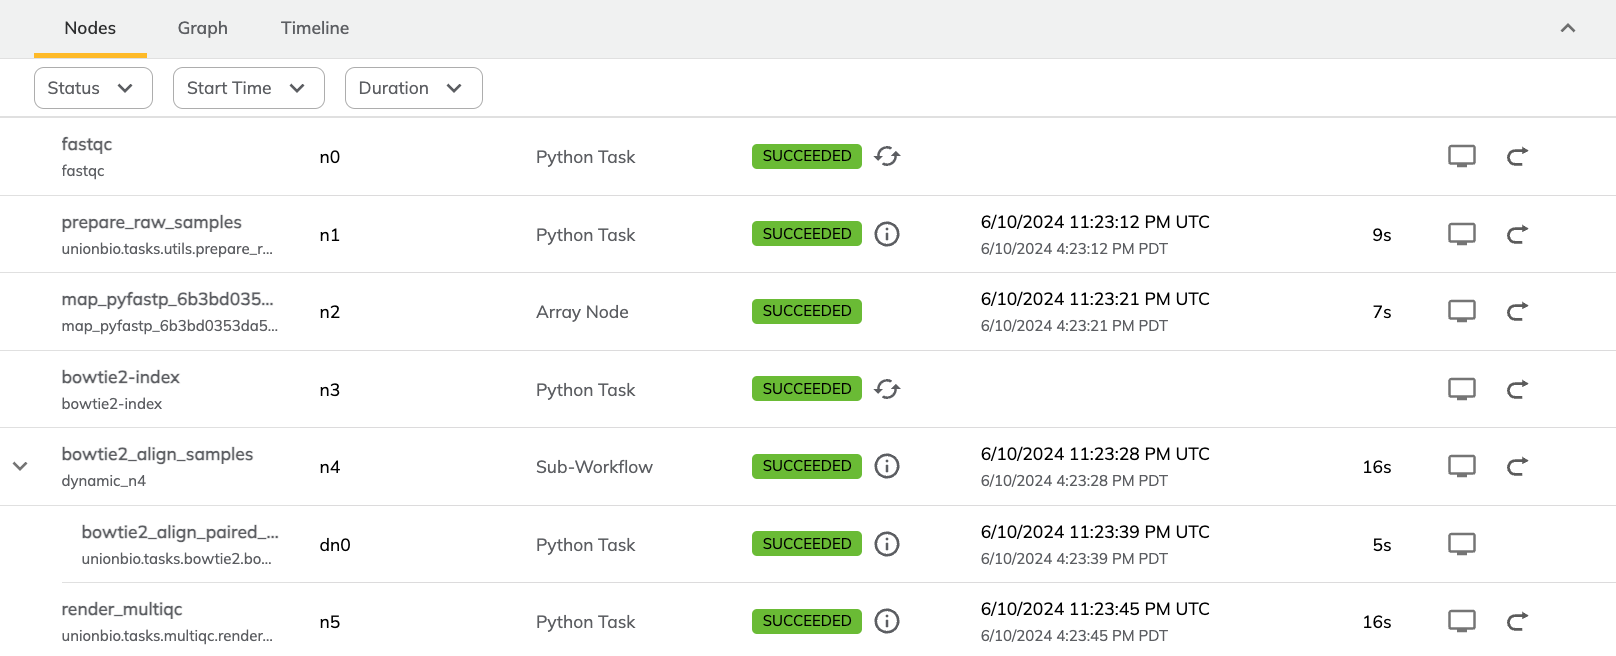
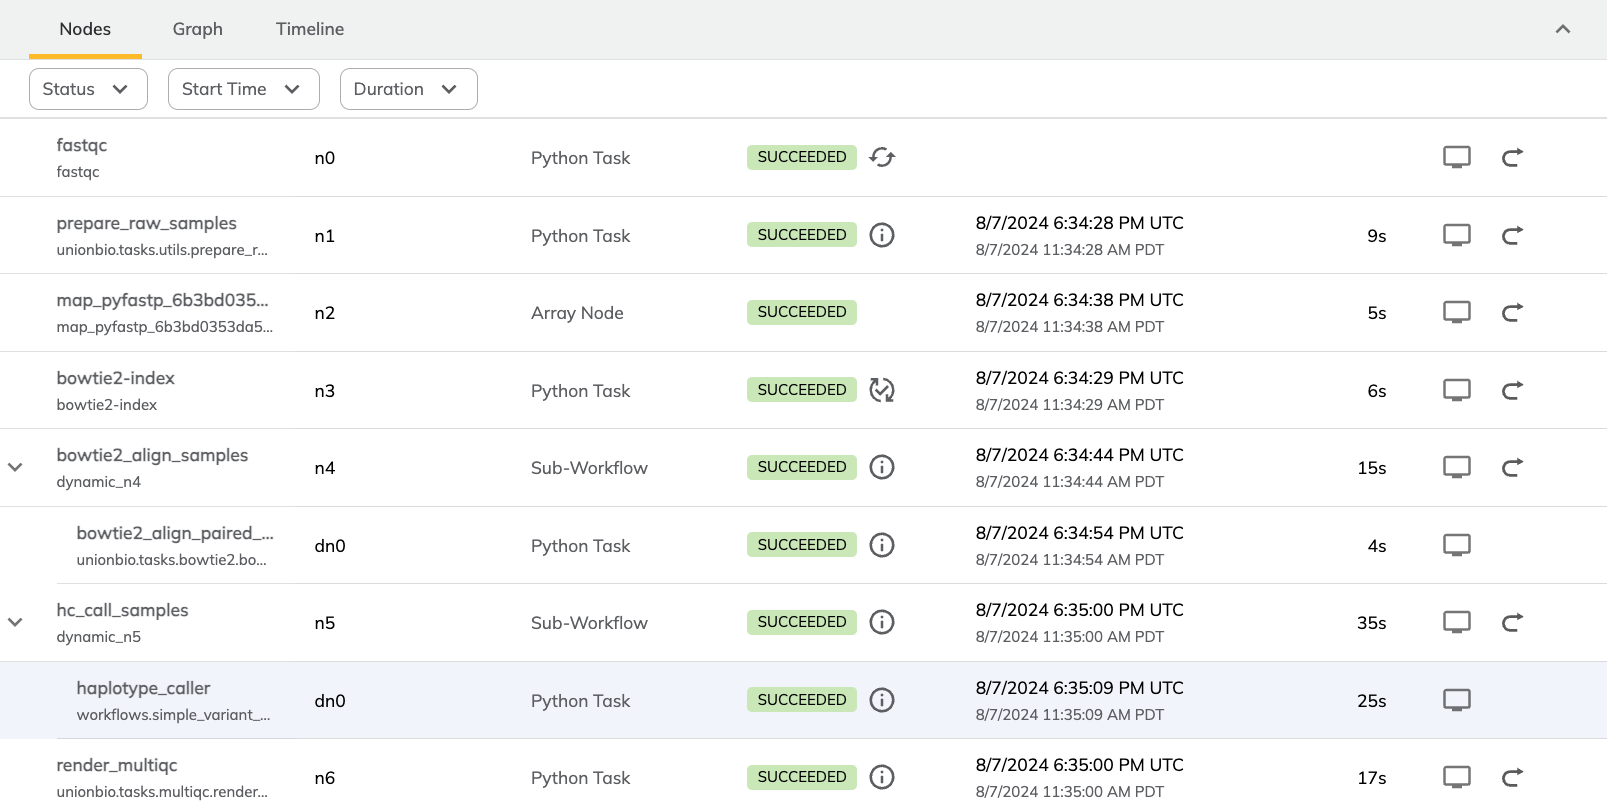
Updated figures, minor edits

diff --git a/papers/pryce_turner/main.md b/papers/pryce_turner/main.md
@@ -79,9 +79,9 @@ folding_img = ImageSpec(
 )
 ```
 
-The `main` image has a lot of functionality and could arguably be pared down. It contains a number of very common low-level tools, along with GATK and a couple aligners [@doi:10.1146/annurev-animal-020518-115005]. The `protein` image on the other hand, only contains a handful of tools related to a very specific protein folding and visualization workflow. Unless using a remote builder, these images are built locally and then pushed to the registry specified. They will persist in the builder's local registry and leverage the builder's cache until cleaned-up. Once built, they are Open Container Initiative (OCI) compliant container images like any other, allowing you to compose them as you see fit. The main image could be used as the base for the folding image, for example. Another very simple but powerful usecase would be to *Flytify* any off-the-shelf image by simply specifying a Python version and adding `flytekit` as a package. 
+The `main` image has a lot of functionality and could arguably be pared down. It contains a number of very common low-level tools, along with GATK and a couple aligners [@doi:10.1146/annurev-animal-020518-115005]. The `protein` image on the other hand, only contains a handful of tools related to a very specific protein folding and visualization workflow. Unless using a remote builder, these images are built locally and then pushed to the registry specified. They will persist in the builder's local registry and leverage the builder's cache until cleaned-up. Once built, they are Open Container Initiative (OCI) compliant container images like any other, allowing you to compose them as you see fit. The main image could be used as the base for the folding image, for example. Another very simple but powerful use case would be to *Flytify* any off-the-shelf image by simply specifying a Python version and adding `flytekit` as a package. 
 
-Currently, a subset of the full Dockerfile functionality has been reimplemented in ImageSpec. A typical Dockerfile could include pulling micromamba binaries, creating and activating an environment, before finally installing the relevant packages. ImageSpec's opinionated approach enables a simpler experience by handling this kind of boilerplate code behind-the-scenes. ImageSpec is also context aware in the same way `docker build` is, meaning a `source_root` containing a lock or env file can be specified and installed if you want to keep your local environment in sync. The [images](https://github.com/unionai-oss/unionbio/blob/main/images.py) submodule of the `unionbio` repo puts this in practice, with different source roots used in test and production.
+Currently, a subset of the full Dockerfile functionality has been reimplemented in ImageSpec. A typical Dockerfile could include pulling Micromamba binaries, creating and activating an environment, before finally installing the relevant packages. ImageSpec's opinionated approach enables a simpler experience by handling this kind of boilerplate code behind-the-scenes. ImageSpec is also context aware in the same way `docker build` is, meaning a `source_root` containing a lock or env file can be specified and installed if you want to keep your local environment in sync. The [images](https://github.com/unionai-oss/unionbio/blob/main/images.py) submodule of the `unionbio` repo puts this in practice, with different source roots used in test and production.
 
 ImageSpecs can be specified in the task decorator alongside any [infrastructure requirements](https://docs.flyte.org/en/latest/user_guide/productionizing/customizing_task_resources.html#customizing-task-resources) in a very granular fashion:
 
@@ -103,7 +103,7 @@ Having rich data types to enforce compatibility at the task boundary is essentia
 
 Importantly, Flyte abstracts the object store, allowing you to load these assets into pods wherever is most convenient for your tool. This not only makes it easier to work with these files, but also safer as you’re working with ephemeral storage during execution instead of a shared production filesystem. In a shared filesystem, unintended side-effects could mutate artifacts unrelated to the current production run. This can be mitigated in a number of ways, such as setting up an empty directory for every experiment or restricting permissions to files after a run is complete. In an ephemeral setting however, inputs of interest are materialized at the beginning of the task and any relevant outputs are serialized to a unique prefix in the object store when the task completes. Any unintended modifications disappear when the pod is deleted.
 
-Sequencers typically produce millions of short strings representing DNA fragments called reads. Single-read sequencing produces one sequencing read per DNA fragment. This is appropriate for simpler analyses such as profiling or for analyzing less complex genomes. [Paired-end](https://thesequencingcenter.com/knowledge-base/what-are-paired-end-reads/) sequencing, on the other hand, produces two reads representing both sequencing directions of the DNA fragment. This is essential in applications such as ["de novo"](https://thesequencingcenter.com/knowledge-base/de-novo-assembly/) assembly which involves re-assembling these reads into a whole genome without a known reference as a guide. It also unlocks the detection of larger variations, typically longer insertions or deletions. 
+Sequencers employ different strategies to produce millions of short strings representing DNA fragments called reads. One such strategy is single-read sequencing, which produces one sequencing read per DNA fragment. This is appropriate for simpler analyses such as profiling or for analyzing less complex genomes. [Paired-end](https://thesequencingcenter.com/knowledge-base/what-are-paired-end-reads/) sequencing, on the other hand, produces two reads representing both sequencing directions of the DNA fragment. This is essential in applications such as ["de novo"](https://thesequencingcenter.com/knowledge-base/de-novo-assembly/) assembly which involves re-assembling these reads into a whole genome without a known reference as a guide. It also unlocks the detection of larger variations, typically longer insertions or deletions. 
 
 Regardless of the sequencing strategy, these reads are captured in one or a pair of [FastQ](https://en.wikipedia.org/wiki/FASTQ_format) files, an example of which is given below:
 
@@ -152,7 +152,7 @@ Additionally, the `make_all` function body has been omitted for brevity, but it 
 
 FlyteFile, along with FlyteDirectory, represent a file or directory in a Flyte aware context. These types handle serialization and deserialization into and out of the object store. They re-implement a number of common filesystem operations like `open()`, which returns a streaming handle, for example. Simply returning a FlyteFile from a task will automatically upload it to whatever object store is defined. This unassuming piece of functionality is one of Flyte's key strengths: abstracting data management so researchers can focus on their task code. Since dataflow in Flyte is a first-class construct, having well defined inputs and outputs at the task boundary makes authoring workflows that much more reliable. 
 
-In order to accomplish sequencing in a sensible timeframe, reads generation is massively parallelized [@doi:10.1126/science.280.5369.1540]. This dramatically improves the throughput, but removes crucial information regarding the location of those reads. In order to recover that information, the reads are aligned to a known reference, producing an Alignment file, which we also capture in a dataclass:
+In order to accomplish sequencing in a sensible timeframe, reads generation is massively parallelized [@doi:10.1126/science.280.5369.1540]. This dramatically improves the throughput, but removes crucial information regarding the location of those reads. In order to recover that information, the reads are aligned to a known reference genome, producing an Alignment file, which we also capture in a dataclass:
 
 ```python
 @dataclass
@@ -189,9 +189,9 @@ Compared to the Reads dataclass, the attributes captured here are of course only
 
 ### Tasks
 
-While Flyte tasks are written in Python, there are a couple of ways to wrap arbitrary tools. ShellTasks are one such way, allowing you to define scripts as multi-line strings in Python. For added flexibility around packing and unpacking data types before and after execution, Flyte also ships with a `subproc_execute` function which can be used in vanilla Python tasks. Finally, arbitrary images can be used via a [ContainerTask](https://docs.flyte.org/en/latest/user_guide/customizing_dependencies/raw_containers.html#raw-containers) and avoid any `flytekit` dependency altogether.
+While Flyte tasks are written in Python, there are a few ways to wrap arbitrary tools. ShellTasks are one such way, allowing you to define scripts as multi-line strings in Python. For added flexibility around packing and unpacking data types before and after execution, Flyte also ships with a `subproc_execute` function which can be used in vanilla Python tasks. Finally, arbitrary images can be used via a [ContainerTask](https://docs.flyte.org/en/latest/user_guide/customizing_dependencies/raw_containers.html#raw-containers) and avoid any `flytekit` dependency altogether.
 
-Bowtie2 [@doi:10.1186/gb-2009-10-3-r25], a fast and memory efficient aligner, is used to carry out the aforementioned alignments. Before alignment can be carried out efficiently, an index must be generated from the reference genome. Indices are generated by pre-processing the reference into a data structure that enables rapid lookup of a match with a given read. Bowtie2 uses an [FM-index](https://www.cs.jhu.edu/~langmea/resources/lecture_notes/bwt_and_fm_index.pdf) which combines the Burrows-Wheeler Transform (BWT) with a suffix array. Broadly speaking, BWT enables compression of the data while the suffix array allows for efficient lookup of substrings. Here is a ShellTask creating a `bowtie2` index directory from a genome reference file:
+Bowtie2 [@doi:10.1186/gb-2009-10-3-r25], a fast and memory efficient aligner, is used to carry out the aforementioned alignments. Before alignment can be carried out efficiently, an index must be generated from the reference genome. Indices are generated by pre-processing the reference into a data structure that enables rapid lookup of a match to a given read. Bowtie2 uses an [FM-index](https://www.cs.jhu.edu/~langmea/resources/lecture_notes/bwt_and_fm_index.pdf) which combines the Burrows-Wheeler Transform (BWT) with a suffix array. Broadly speaking, BWT enables compression of the data while the suffix array allows for efficient lookup of substrings. Here is a ShellTask creating a `bowtie2` index directory from a genome reference file:
 
 ```python
 bowtie2_index = ShellTask(
@@ -217,91 +217,88 @@ This task uses the `main_img` defined above; it also accepts a FlyteFile and out
 @task(container_image=main_img, requests=Resources(cpu="4", mem="10Gi"))
 def bowtie2_align_paired_reads(idx: FlyteDirectory, fs: Reads) -> Alignment:
     idx.download()
-    logger.debug(f"Index downloaded to {idx.path}")
     ldir = Path(current_context().working_directory)
 
-    alignment = Alignment(fs.sample, "bowtie2", "sam")
+    alignment = Alignment(fs.sample, "bowtie2", "sam", sorted=False, deduped=False)
     al = ldir.joinpath(alignment.get_alignment_fname())
     rep = ldir.joinpath(alignment.get_report_fname())
-    logger.debug(f"Writing alignment to {al} and report to {rep}")
 
     cmd = [
         "bowtie2",
         "-x",
         f"{idx.path}/bt2_idx",
         "-1",
-        fs.read1,
+        fs.read1.path,
         "-2",
-        fs.read2,
+        fs.read2.path,
         "-S",
         al,
     ]
-    logger.debug(f"Running command: {cmd}")
 
     result = subproc_execute(cmd)
 
-    # Bowtie2 indexing writes stats to stderr
+    # Bowtie2 alignment writes stats to stderr
     with open(rep, "w") as f:
         f.write(result.error)
 
     alignment.alignment = FlyteFile(path=str(al))
     alignment.alignment_report = FlyteFile(path=str(rep))
-    alignment.sorted = False
-    alignment.deduped = False
 
     return alignment
 ```
 
 Since Python tasks are the default task type, they're the most feature rich and stable. The main advantage to using one here is to unpack the inputs and construct the output type.
 
-The resulting alignments are then deduplicated, sorted, recalibrated and reformatted. While [important](https://gatk.broadinstitute.org/hc/en-us/articles/360035535912-Data-pre-processing-for-variant-discovery), these tasks are similarly implemented to the above alignment function and as such are ommitted to focus on the next major step: variant calling. Variant calling has such a diversity of approaches that any meaningful exploration of the landscape is out of scope. However, the central purpose is to distill the aligned reads into a set of likely relevant loci of interest. These variants can range from single-nucleotide polymorphisms (SNPs) to much larger structural variations mentioned above. Furthermore, once variants are called, they can be further filtered downstream for certain characteristics or against one of the many curated databases to arrive at a set of actionable insights.
+The resulting alignments are then deduplicated, sorted, recalibrated and reformatted. While important, these [tasks](https://gatk.broadinstitute.org/hc/en-us/articles/360035535912-Data-pre-processing-for-variant-discovery) are similarly implemented to the above alignment function and as such are omitted to focus on the next major step: variant calling. Variant calling has such a diversity of approaches that any meaningful exploration of the landscape is out of scope. However, the central purpose is to distill the aligned reads into a set of likely relevant loci that deviate from the reference. This is accomplished by aggregating information like quality scores and the number of reads covering a given location, called a pileup, to come to consensus around a most likely call. 
 
 ```python
 @task(container_image=main_img_fqn)
 def haplotype_caller(ref: Reference, al: Alignment) -> VCF:
     ref.aggregate()
     al.aggregate()
-    vcf_out = VCF(
-        sample=al.sample,
-        caller="gatk-hc",
-    )
+    vcf_out = VCF(sample=al.sample, caller="gatk-hc")
     vcf_fn = vcf_out.get_vcf_fname()
     vcf_idx_fn = vcf_out.get_vcf_idx_fname()
+
     hc_cmd = [
         "gatk",
         "HaplotypeCaller",
         "-R",
-        str(ref.get_ref_path()),
+        ref.get_ref_path(),
         "-I",
-        str(al.alignment.path),
+        al.alignment.path,
         "-O",
-        str(vcf_fn),
+        vcf_fn,
     ]
+
     subproc_execute(hc_cmd)
+    
     vcf_out.vcf = FlyteFile(path=vcf_fn)
     vcf_out.vcf_idx = FlyteFile(path=vcf_idx_fn)
+    
     return vcf_out
 ```
 
-GATK's HaplotypeCaller is used to perform variant calling by accepting an Alignment and Reference object and producing a Variant Call Format (VCF) file. VCFs are another common tabular text file, with each row representing a variant present in the input sequences and its expected counterpart in the reference. 
+GATK's HaplotypeCaller is used to perform variant calling by accepting an Alignment and Reference object and producing a Variant Call Format (VCF) file. VCFs are another common tabular text file, with each row representing a variant present in the input sequences and its alternate in the reference, along with a quality score and extensible columns for adding additional information. Variants can range from single-nucleotide polymorphisms (SNPs) to much larger structural variations mentioned above. Once variants are called, they can be further filtered downstream for certain characteristics, or against one of the many curated databases, to arrive at a set of actionable insights.
 
 ## Results
 
-A real world alignment workflow demonstrates how to tie all these disparate parts together. Starting with a directory containing raw FastQ files, we'll perform quality-control (QC), filtering, index generation, alignment and conclude with a final report of all the steps. Here's the code:
+A real world variant discovery workflow demonstrates how to tie all these disparate parts together. Starting with a directory containing raw FastQ files, we'll perform quality-control (QC), filtering, index generation, alignment, calling, and conclude with a final report of all the steps. Here's the code:
 
 ```python
-from unionbio.config import seq_dir_path, ref_path, indels_path
-from unionbio.tasks.utils import prepare_raw_samples, reformat_alignments
+from flytekit import workflow, dynamic, map_task
+from flytekit.types.directory import FlyteDirectory
+from flytekit.types.file import FlyteFile
+from unionbio.tasks.utils import prepare_raw_samples
 from unionbio.tasks.fastqc import fastqc
 from unionbio.tasks.fastp import pyfastp
 from unionbio.tasks.bowtie2 import bowtie2_idx, bowtie2_align_samples
-from unionbio.tasks.base_recal import recalibrate_samples
 from unionbio.tasks.callers import hc_call_variants
 from unionbio.tasks.multiqc import render_multiqc
 
 
 @workflow
-def simple_alignment_wf(seq_dir: FlyteDirectory = seq_dir_pth) -> FlyteFile:
+def variant_discovery_wf(seq_dir: FlyteDirectory, ref_path: FlyteFile) -> FlyteFile:
     
     # Generate FastQC reports and check for failures
     fqc_out = fastqc(seq_dir=seq_dir)
@@ -319,8 +316,8 @@ def simple_alignment_wf(seq_dir: FlyteDirectory = seq_dir_pth) -> FlyteFile:
     # Generate alignments using bowtie2
     sams = bowtie2_align_samples(idx=bowtie2_idx, samples=filtered_samples)
 
-    # Call Variants
-    vcfs = hc_call_variants(ref=ref_path, als=bams)
+    # Call variants
+    vcfs = hc_call_variants(ref=ref_path, als=sams)
 
     # Generate final multiqc report with stats from all steps
     return render_multiqc(fqc=fqc_out, filt_reps=filtered_samples, sams=sams, vcfs=vcfs)
@@ -333,18 +330,18 @@ To help make sense of the flow of tasks, here is a screenshot from the Flyte UI 
 Table listing the various tasks of the workflow alongside task type, status, completion time, and runtime
 :::
 
-FastQC [@andrews2012], an extremely common QC tool, is wrapped in a ShellTask and starts off the workflow by generating a report for all FastQ formatted reads files in a given directory. That directory is then turned into Reads objects via the `prepare_raw_samples` task. Those samples are passed to `fastp` for adapter removal and filtering of duplicate or low quality reads. Fastp [@doi:10.1002/imt2.107] is wrapped in a Python task which accepts a single Reads object. This task is then used in a [map task](https://docs.flyte.org/en/latest/user_guide/advanced_composition/map_tasks.html#map-task) to parallelize the processing of however many discrete samples were present in the input directory. Flyte relies on the flow of strongly-typed inputs and outputs to assemble the workflow; since there is no implicit dependency between filtering and QC, we make this relationship explicit with the `>>` [operator](https://docs.flyte.org/en/latest/flyte_fundamentals/tasks_workflows_and_launch_plans.html#specifying-dependencies-without-passing-data). 
+FastQC [@andrews2012], an extremely common QC tool, is wrapped in a ShellTask and starts off the workflow by generating a report for all FastQ formatted reads files in a given directory. That directory is then turned into Reads objects via the `prepare_raw_samples` task. Those samples are passed to `fastp` for adapter removal and filtering of duplicate or low quality reads. FastP [@doi:10.1002/imt2.107] is wrapped in a Python task which accepts a single Reads object. This task is then used in a [map task](https://docs.flyte.org/en/latest/user_guide/advanced_composition/map_tasks.html#map-task) to parallelize the processing of however many discrete samples were present in the input directory. Flyte relies on the flow of strongly-typed inputs and outputs to assemble the workflow; since there is no implicit dependency between filtering and QC, we make this relationship explicit with the "`>>`" [operator](https://docs.flyte.org/en/latest/flyte_fundamentals/tasks_workflows_and_launch_plans.html#specifying-dependencies-without-passing-data). 
 
-Once pre-processing is complete, alignment can take place. First, `bowtie2_index` generates an index if one is not already cached. Since the bowtie2 alignment task processes samples one at a time, it was wrapped in a [dynamic workflow](https://docs.flyte.org/en/latest/user_guide/advanced_composition/dynamic_workflows.html#dynamic-workflows) to process a list of inputs. Dynamics are another parallelism construct, similar to map tasks with some key [differences](https://flyte.org/blog/map-tasks-in-flyte): they are more flexible than map tasks at the expense of some efficiency. Lastly, MultiQC [@doi:10.1093/bioinformatics/btw354], produces a final report of all the different steps in the workflow. Certain task definitions are omitted for the sake of cogency, they are all fully-defined in the `unionbio` repo.
+Once pre-processing is complete, alignment can take place. First, `bowtie2_index` generates an index if one is not already cached. Since the bowtie2 alignment task processes samples one at a time, it was wrapped in a [dynamic workflow](https://docs.flyte.org/en/latest/user_guide/advanced_composition/dynamic_workflows.html#dynamic-workflows) to process a list of inputs. Dynamics are another parallelism construct, similar to map tasks with some key [differences](https://flyte.org/blog/map-tasks-in-flyte): they are more flexible than map tasks at the expense of some efficiency. Similarly, variant calling is performed across all samples using HaplotypeCaller. Lastly, MultiQC [@doi:10.1093/bioinformatics/btw354], produces a final report of all the different steps in the workflow. Certain task definitions are omitted for the sake of cogency, they are all fully-defined in the `unionbio` repo.
 
-Despite being a fairly parsimonious workflow, it's important to hightlight how many different languages are seamlessly integrated. The preprocessing tools are written in **Java** and **C/C++**. Alignment is carried out with a mix of **Perl** and **C++**. Finally, the reporting tool is implemented purely in **Python**. Additionally, while this simplicity affords easy understanding of task-flow from the code, the Flyte console provides excellent visualizations to best understand it's structure:
+Despite being a fairly parsimonious workflow, it's important to highlight how many different languages are seamlessly integrated. The preprocessing tools are written in **Java** and **C/C++**. Alignment is carried out with a mix of **Perl** and **C++**. HaplotypeCaller is implemented purely in **Java**. Finally, the reporting tool is implemented in **Python**. While this simplicity affords easy understanding of task-flow from the code, the Flyte console provides excellent visualizations to best understand it's structure:
 
 :::{figure} dag.png
 :label: fig:dag
 Workflow DAG showing the tasks as color-coded nodes with connections between them representing dependencies
 :::
 
-Finally, it's helpful to inspect a timeline of the execution which highlights a few things. Since this workflow was run several times over the course of capturing these figures, the `fastqc` and `bowtie2_index` tasks were cached in previous runs. It's also clear from this figure which tasks were run in parallel in contrast to those which had dependencies on upstream outputs. Finally, the overall runtime is broken down into it's separate parts. Since this was run on test data, everything executed fairly quickly. 
+Finally, it's helpful to inspect a timeline of the execution which highlights a few things. Since this workflow was run several times over the course of capturing these figures, the `fastqc` task was cached in previous runs. It's also clear from this figure which tasks were run in parallel in contrast to those which had dependencies on upstream outputs. Finally, the overall runtime is broken down into it's separate parts. Since this was run on test data, everything executed fairly quickly. 
 
 :::{figure} timeline.png
 :label: fig:tl
